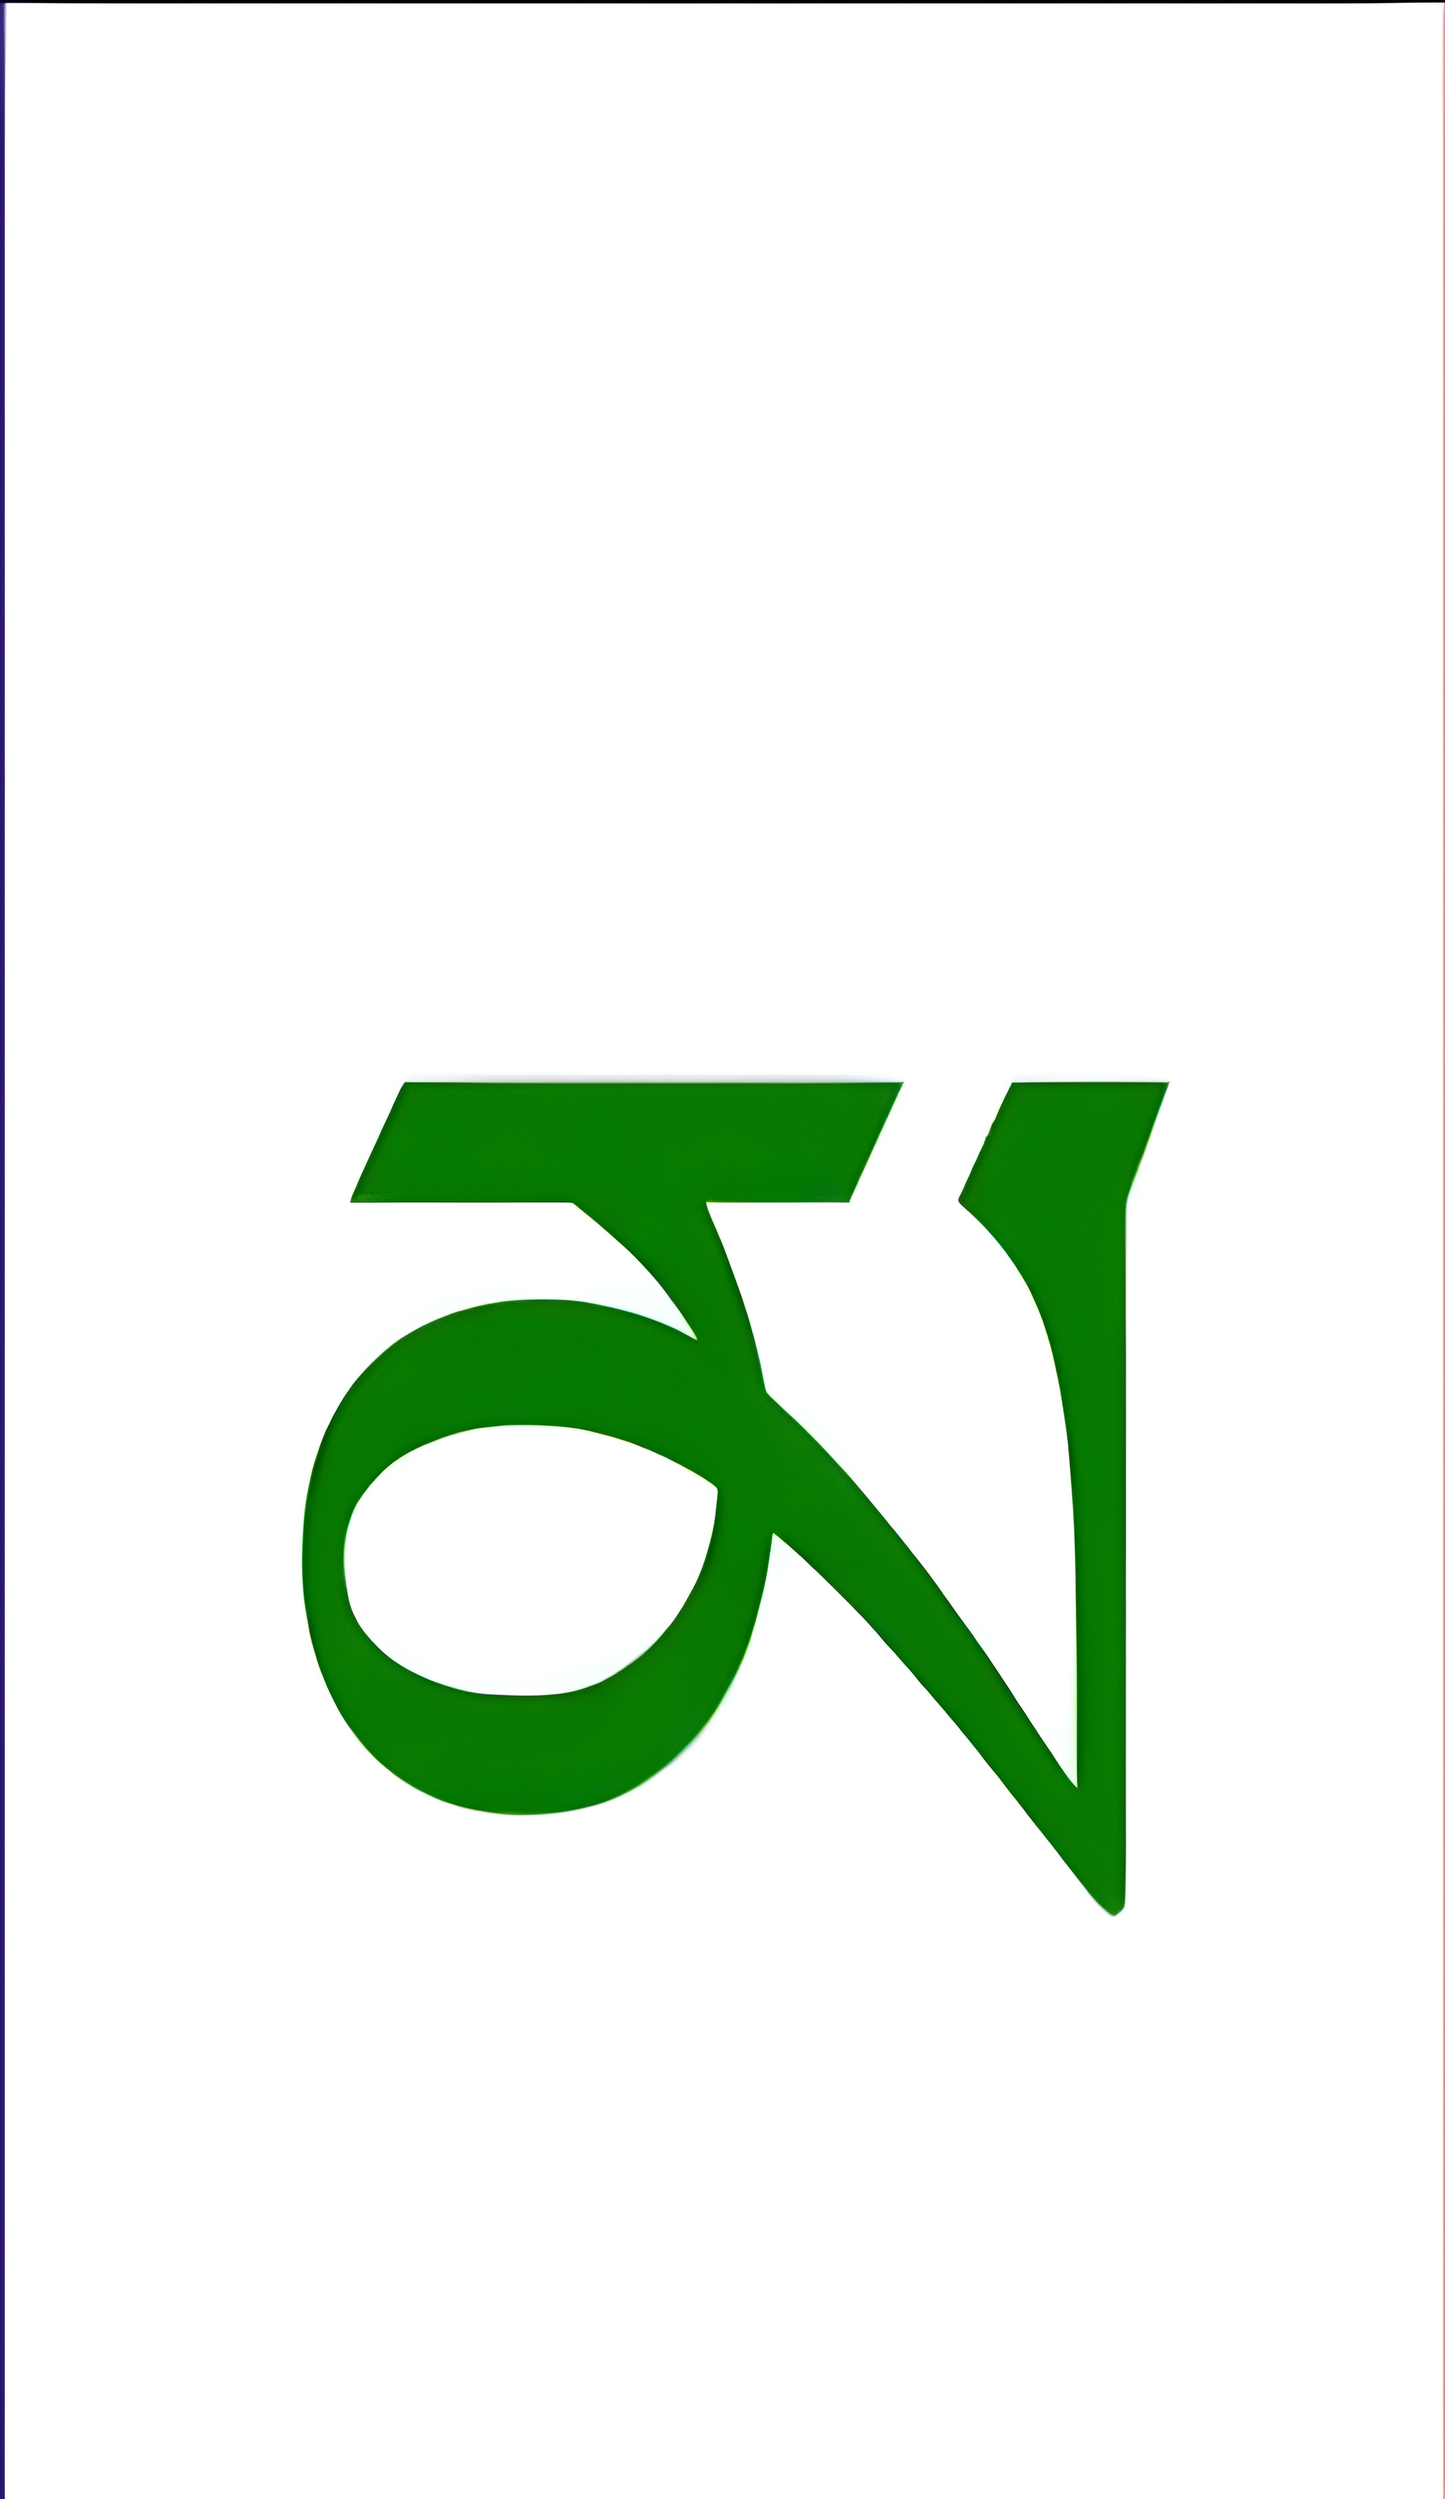
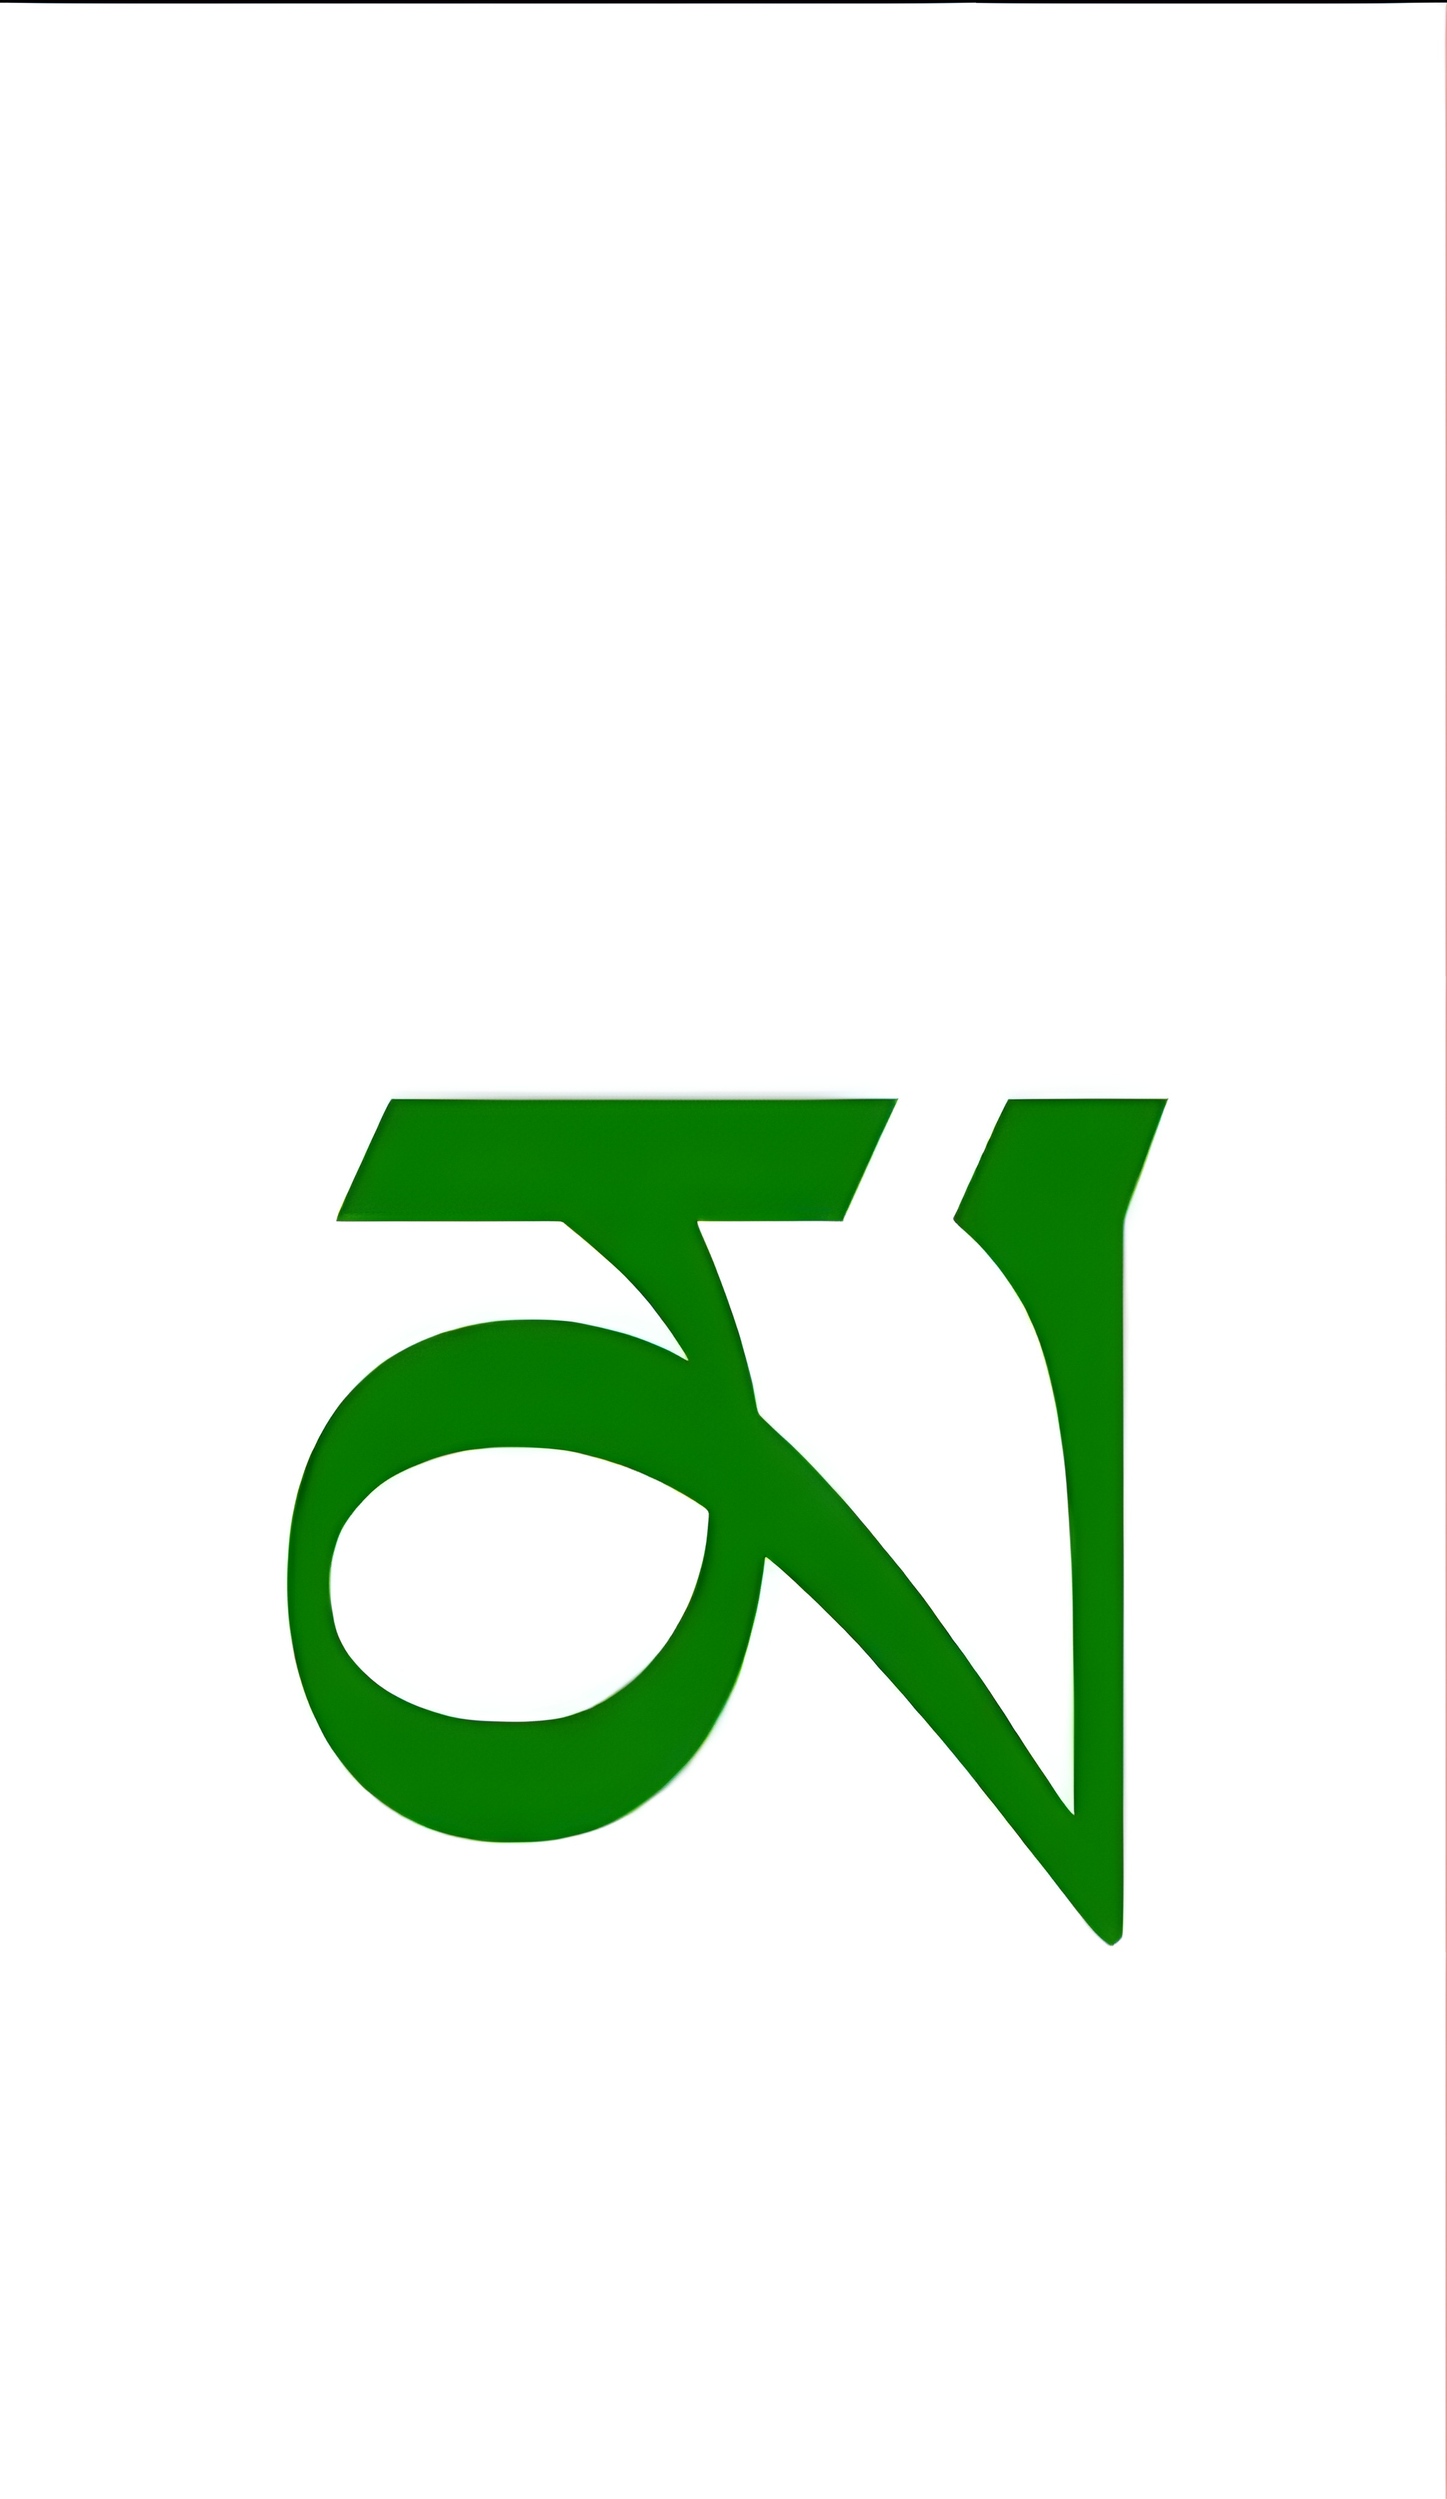
Tune hero and Tibetan art sizing
Made-with: Cursor

diff --git a/index.html b/index.html
@@ -15,7 +15,7 @@
       href="https://fonts.googleapis.com/css2?family=Inter:wght@400;500;600;700&display=swap"
       rel="stylesheet"
     >
-    <link rel="stylesheet" href="styles.css?v=20260430-3">
+    <link rel="stylesheet" href="styles.css?v=20260430-4">
   </head>
   <body>
     <header class="site-header">
@@ -196,7 +196,7 @@
           class="section-art"
           src="white.png"
           alt=""
-          width="2368"
+          width="2372"
           height="4096"
           loading="lazy"
           decoding="async"
@@ -371,7 +371,7 @@
           class="section-art"
           src="yellow.png"
           alt=""
-          width="2372"
+          width="2348"
           height="4096"
           loading="lazy"
           decoding="async"

diff --git a/styles.css b/styles.css
@@ -99,11 +99,11 @@ main {
   align-items: center;
   text-align: center;
   margin: 0 auto clamp(24px, 4vw, 36px);
-  max-width: min(150px, 100%);
+  max-width: min(225px, 100%);
 }
 
 .hero-brand-image {
-  width: min(108px, 30vw);
+  width: min(162px, 42vw);
   height: auto;
   display: block;
 }
@@ -191,7 +191,7 @@ main {
   grid-row: 1;
   justify-self: center;
   align-self: start;
-  width: clamp(76px, 10vw, 104px);
+  width: clamp(65px, 8.5vw, 88px);
   height: auto;
   margin: -90px 0 0;
 }
@@ -208,7 +208,7 @@ main {
 .section-heading h2 {
   margin: 0;
   color: var(--ink);
-  font-size: clamp(2rem, 4.5vw, 3.6rem);
+  font-size: clamp(1.85rem, 4vw, 3rem);
   line-height: 1;
   letter-spacing: -0.06em;
 }
